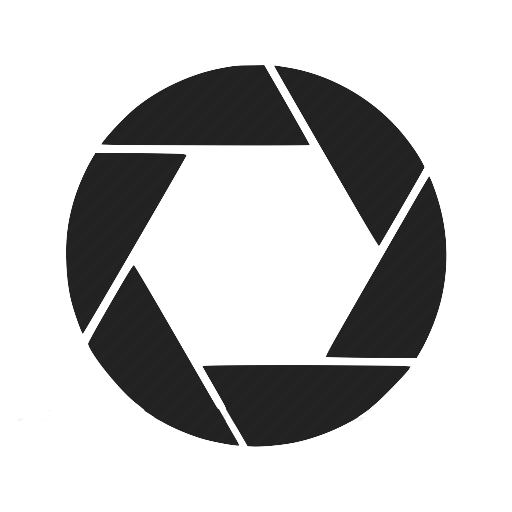
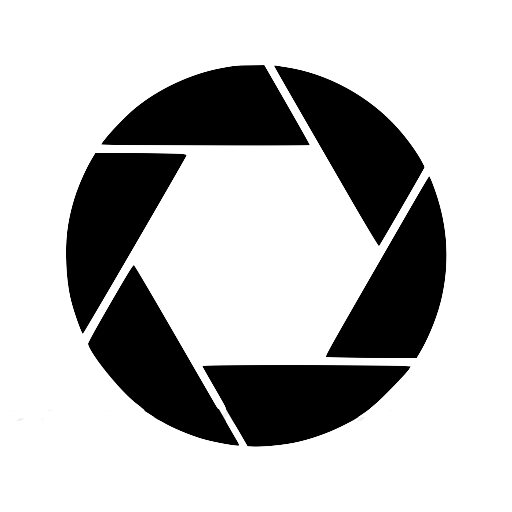
yesterday night I worked on the title page and aesthetic - as in colours and better animations. Im quite happy with how it looks right now its very smooth. I also added a menu button that doesnt do anything yet but its there. next step is adding options to the menu button: making it do things, and a

Changed region(s): [[0.125, 0.125, 0.875, 0.875]]

diff --git a/styles.css b/styles.css
@@ -1,13 +1,77 @@
-.header {
-    height: 700px;
+
+:root {
+    background-color: black;
+    --border-gradient: linear-gradient(to bottom, white, black) 1;
+    --color1: black;
+    --color2: white;
+    --color3: gray;
+}
+
+
+body{
+    margin: 0;
+    background: var(--bg-gradient) fixed;
+    color: var(--color1); 
+}
+
+
+button {
+    position: absolute;
+    top: 60px;
+    color: black; 
+    border: none;
+    cursor: pointer; 
+    z-index: 100;
+    background-color: transparent;
+    font-size: 30px;
+    font-family: "Times New Roman";
+    animation: showtext 3s forwards;
+}
+
+
+#menu:hover {
+    color: rgb(137, 5, 97); 
+    transform: scale(1.5); 
+}
+
+#menu {
+    right: 65px; 
+}
+
+
+@keyframes showtext {
+    0% {
+        opacity: 0;}
+    
+    75% {
+        opacity: 0;
+    }
+
+    100% {
+        opacity: 1}
+}
+
+
+#nametag {
+    left: 65px;
+    font-family: "comic sans ms";
+    color: rgb(244, 28, 132);
+}
+
+.title {
+    height: 1000px;
     width: 100%;
     display: flex;
-    justify-content: center;
+    justify-content: center; 
     align-items: center;
     backdrop-filter: blur(5px);
-    margin-bottom: 500px;
+    margin-bottom: 900px;
     overflow: hidden;
+    background: linear-gradient(to bottom, white, black);
+    color:white;
 }
+
+
 
 h1 {
     font-size: 100px;
@@ -17,53 +81,70 @@ h1 {
     overflow: hidden;
     white-space: nowrap;
     opacity: 20;
-    animation: revealText 1s steps(22) backwards;
-    animation-delay: 1s;
+    animation: reveal 0.5s steps(22) backwards;
+    animation-delay: 2s;
+    font-family: "Didot";
+    font-weight: bold;
 }
 
-#headimg {
-    width: 600px;
-    animation-delay: 1s;
-    animation: glideImage 1.5s;
-}
+h2 {
+    color: white;
 
-img {
-    width: 600px;
 }
 
 #headimg {
     width: 120px;
     height: 120px;
+    transform-origin: center;
+    animation: glideImage 3s;
+    animation-delay: 0.3s;
+    filter: invert(100%);
     z-index: 2;
 }
 
-@keyframes revealText {
+
+
+
+@keyframes reveal {
     0% {
-        width: 0;}
+        width: 0%;}
     100% {
         width: 57%;}
 }
 
-@keyframes glideImage {
 
+@keyframes glideImage {
     0% {
         transform: translateX(0%);
-        width: 100px;}
+    }
         
     25% {
         transform: translateX(0%);
-        width: 100px;}
-        
-    60% {
-        transform: translateX(40%);
+        scale: 20%;
+        rotate: 0deg;
+    }
+
+    50% {
+        transform: translateX(40%) rotate(180deg);
         height: 500px;
         width: 500px;}
 
     100% {
-        transform: translateX(0%);
-        width: 100px;}
+        transform: translateX(0px) rotate(-720deg);
+        width: 120px;}}
+  
 
+.section {
+    text-align: center;
+    color: white;
+    margin-bottom: 1250px;
+}
 
+.section img {
+    border-radius: 10px;
+    opacity: 0;
+    animation: fadeInLeft 2s forwards;
+    width: 600px;
+    border: 2px solid white;
+}
 
-
- 

diff --git a/index.html b/index.html
@@ -4,18 +4,61 @@
   <head>
     <link rel="stylesheet" href="styles.css" >
     <meta name="viewport" content="width=device-width, initial-scale=1.0">
-    <title>Cat Site</title>
+    <title>Portfolio</title>
     <link rel="stylesheet" href="https://cdnjs.cloudflare.com/ajax/libs/animate.css/4.1.1/animate.min.css"/>
+
+
+
   </head>
 
   <body>
     <div class="header">
-      <img id="headimg" src="assets/headingimg.png"> 
-      <h1>PHOTOGRAPHY.</h1>
+      <button id="menu" onclick="alert('clicked')">Menu</button>
+      <button id="nametag" onclick="MyFunction(this, random(colour))">Corn Dogs</button>
+      <div class="title">
+        <img id="headimg" src="assets/headingimg.png"> 
+        <h1>PHOTOGRAPHY</h1>
+      </div>
     </div>
 
 
-    <img src="assets/1.jpeg"> 
+
+    <h2>SECTION 1</h2>
+    <div class="section">
+      <img src="assets/1.jpeg">  
+      <div class = col-2 >
+        <p>photo description</p>
+    </div>
+    </div>
+
+    <h2>SECTION 2</h2>
+    <div class="section">
+      <img src="assets/straight_stars.jpeg">  
+      <p>photo description</p>
+    </div>
+
+
+    <h2>SECTION 3</h2>
+    <div class="section">
+      <img src="assets/duo_stars.JPG">  
+      <p>photo description</p>
+    </div>
+
+
+    <h2>SECTION 4</h2>
+    <div class="section">
+      <img src="assets/camp_stars.JPG">  
+      <p>photo description</p>
+    </div>
+
+
+    <h2>SECTION 5</h2>
+    <div class="section">
+      <img src="assets/group_forest.JPG">  
+      <p>photo description</p>
+    </div>
+
+
   </body>
   
 </html>
